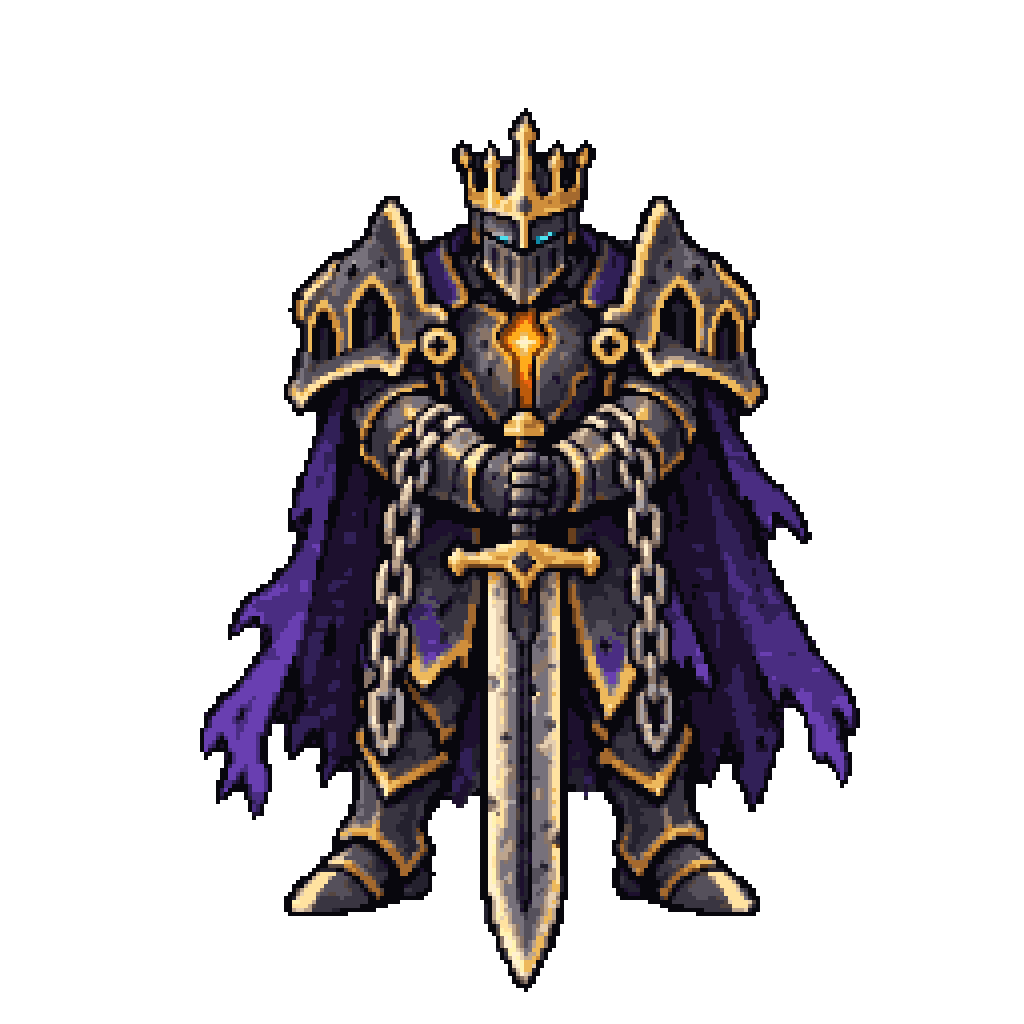
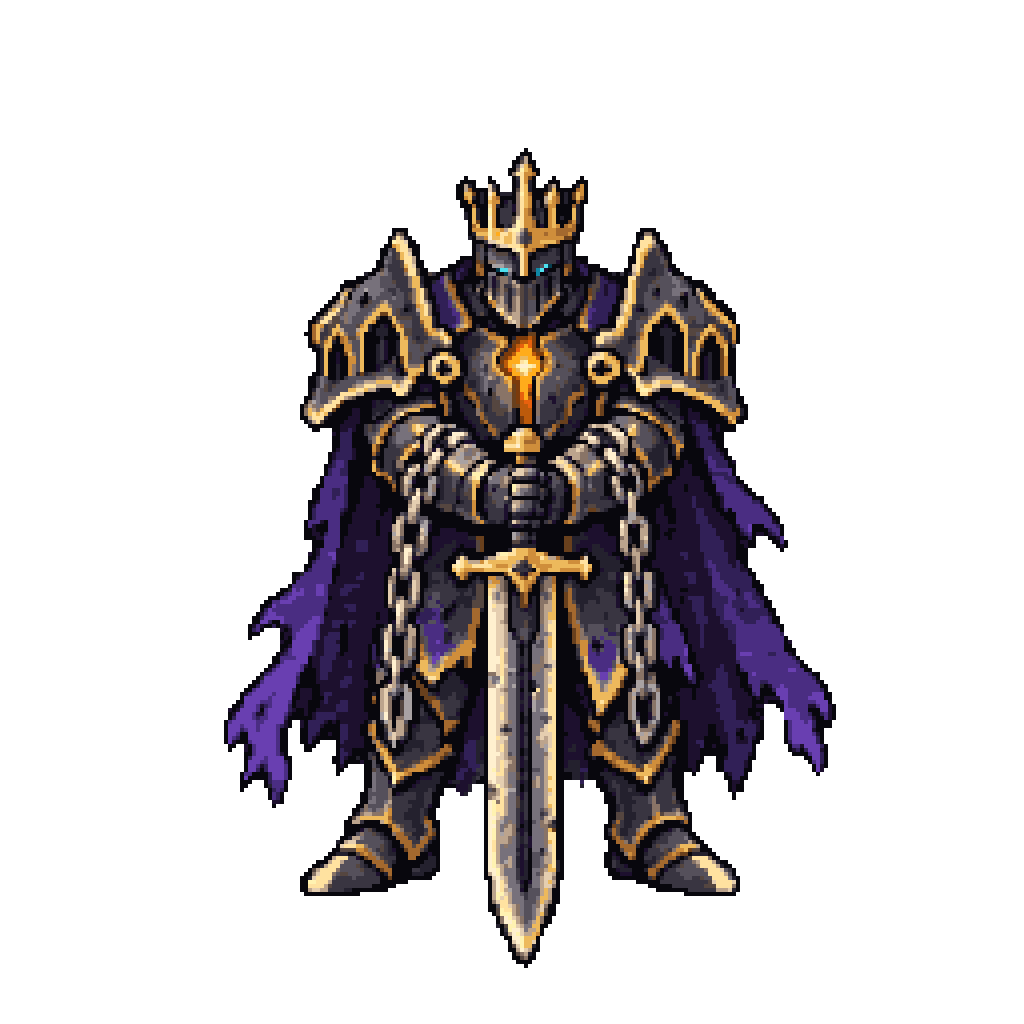
fix(assets): fit the king's ceremony pair to his guard
The planted-sword pair he stands in before his first turn was drawn
about 8% larger (linear, by armour mass) than his guard and walk, so
he grew as he reached the foot of the dais. Scale each phase's pair
to its idle0 guard about the body's centre with the boots on the
guard's line, as normalize-boss-king-cast does for the tele pair,
keeping the originals as *_unscaled.

Claude-Session: https://claude.ai/code/session_019TWNDGzMsoSsKQGfx5B6jm

Changed region(s): [[0.1875, 0.0938, 0.8438, 0.9688]]

diff --git a/packages/harness/src/cli/normalize-boss-king-ceremony.ts b/packages/harness/src/cli/normalize-boss-king-ceremony.ts
@@ -1,0 +1,57 @@
+/** Fit the king's ceremony pair (sword planted, before his first turn) to his combat guard. */
+import { copyFileSync, existsSync, readFileSync, writeFileSync } from "node:fs";
+import { join } from "node:path";
+import { fileURLToPath } from "node:url";
+import { PNG } from "pngjs";
+
+const root = fileURLToPath(new URL("../../../../assets/source/melee/boss-king/", import.meta.url));
+const S = 256;
+const index = (x: number, y: number): number => ((y * 4) * 1024 + x * 4) * 4;
+
+function armourArea(image: PNG): number {
+  let area = 0;
+  for (let y = 0; y < S; y++) for (let x = 0; x < S; x++) {
+    const i = index(x, y);
+    if (image.data[i + 3]! < 16) continue;
+    const r = image.data[i]!, g = image.data[i + 1]!, b = image.data[i + 2]!;
+    if (b > r + 15 && b > g + 25) continue;
+    const hi = Math.max(r, g, b), lo = Math.min(r, g, b);
+    if (hi - lo < 28 && hi > 120) continue;
+    area++;
+  }
+  return area;
+}
+
+// His boots, not the planted blade's tip between them.
+function bottom(image: PNG): number {
+  for (let y = S - 1; y >= 0; y--) for (let x = 0; x < S; x++)
+    if ((x < 95 || x > 160) && image.data[index(x, y) + 3]! >= 128) return y;
+  throw new Error("empty boss source");
+}
+
+for (const phase of [1, 2, 3]) {
+  const dir = join(root, `p${phase}`);
+  const guard = PNG.sync.read(readFileSync(join(dir, "idle0.png")));
+  for (const pose of ["ceremony0", "ceremony1"]) {
+    const file = join(dir, `${pose}.png`), backup = join(dir, `${pose}_unscaled.png`);
+    if (!existsSync(backup)) copyFileSync(file, backup);
+  }
+  const original = PNG.sync.read(readFileSync(join(dir, "ceremony0_unscaled.png")));
+  const scale = Math.sqrt(armourArea(guard) / armourArea(original));
+  const targetBottom = bottom(guard), sourceBottom = bottom(original);
+  for (const pose of ["ceremony0", "ceremony1"]) {
+    const file = join(dir, `${pose}.png`), backup = join(dir, `${pose}_unscaled.png`);
+    const before = PNG.sync.read(readFileSync(backup));
+    const after = new PNG({ width: 1024, height: 1024 }); after.data.fill(0);
+    for (let y = 0; y < S; y++) for (let x = 0; x < S; x++) {
+      const sx = Math.round(128 + (x - 128) / scale);
+      const sy = Math.round(sourceBottom + (y - targetBottom) / scale);
+      if (sx < 0 || sx >= S || sy < 0 || sy >= S) continue;
+      const from = index(sx, sy);
+      for (let dy = 0; dy < 4; dy++) for (let dx = 0; dx < 4; dx++)
+        after.data.set(before.data.subarray(from, from + 4), (((y * 4 + dy) * 1024 + x * 4 + dx) * 4));
+    }
+    writeFileSync(file, PNG.sync.write(after));
+  }
+  console.log(`p${phase}: ceremony pair fit at ${(scale * 100).toFixed(1)}%`);
+}
